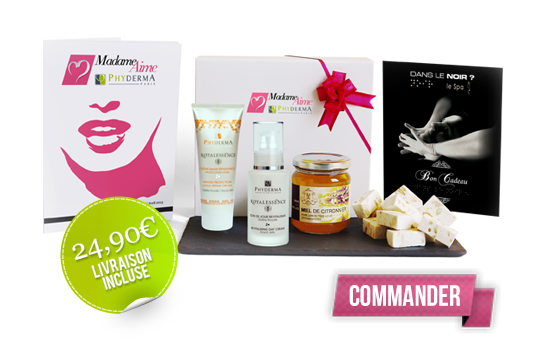
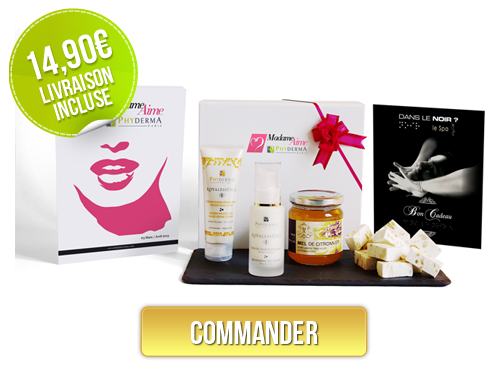
Change image, and add form

diff --git a/www/mmm/templates/boxes/2013-mar.html b/www/mmm/templates/boxes/2013-mar.html
@@ -5,9 +5,11 @@
 <section id="box">
   <div class="description clearfix">
     <div class="photo pull-left" style="width: 490px;">
-      <a href="{% url "offer" %}">
-        <img src="{{STATIC_URL}}img/boxes/2013-mar/photo.png" alt="Coffret Phyderma"/>
-      </a>
+      <form method="post" action="{% url 'emarket:shopping-cart.add' %}">
+	{% csrf_token %}
+	<input type="hidden" name="sale_id" value="13" />
+        <input type="image" src="{{ STATIC_URL }}img/boxes/2013-mar/photo.png" alt="Coffret Phyderma"/>
+      </form>
     </div>
     <div class="text pull-right" style="width: 450px;">
       <h1>Madame Aime Phyderma</h1>
